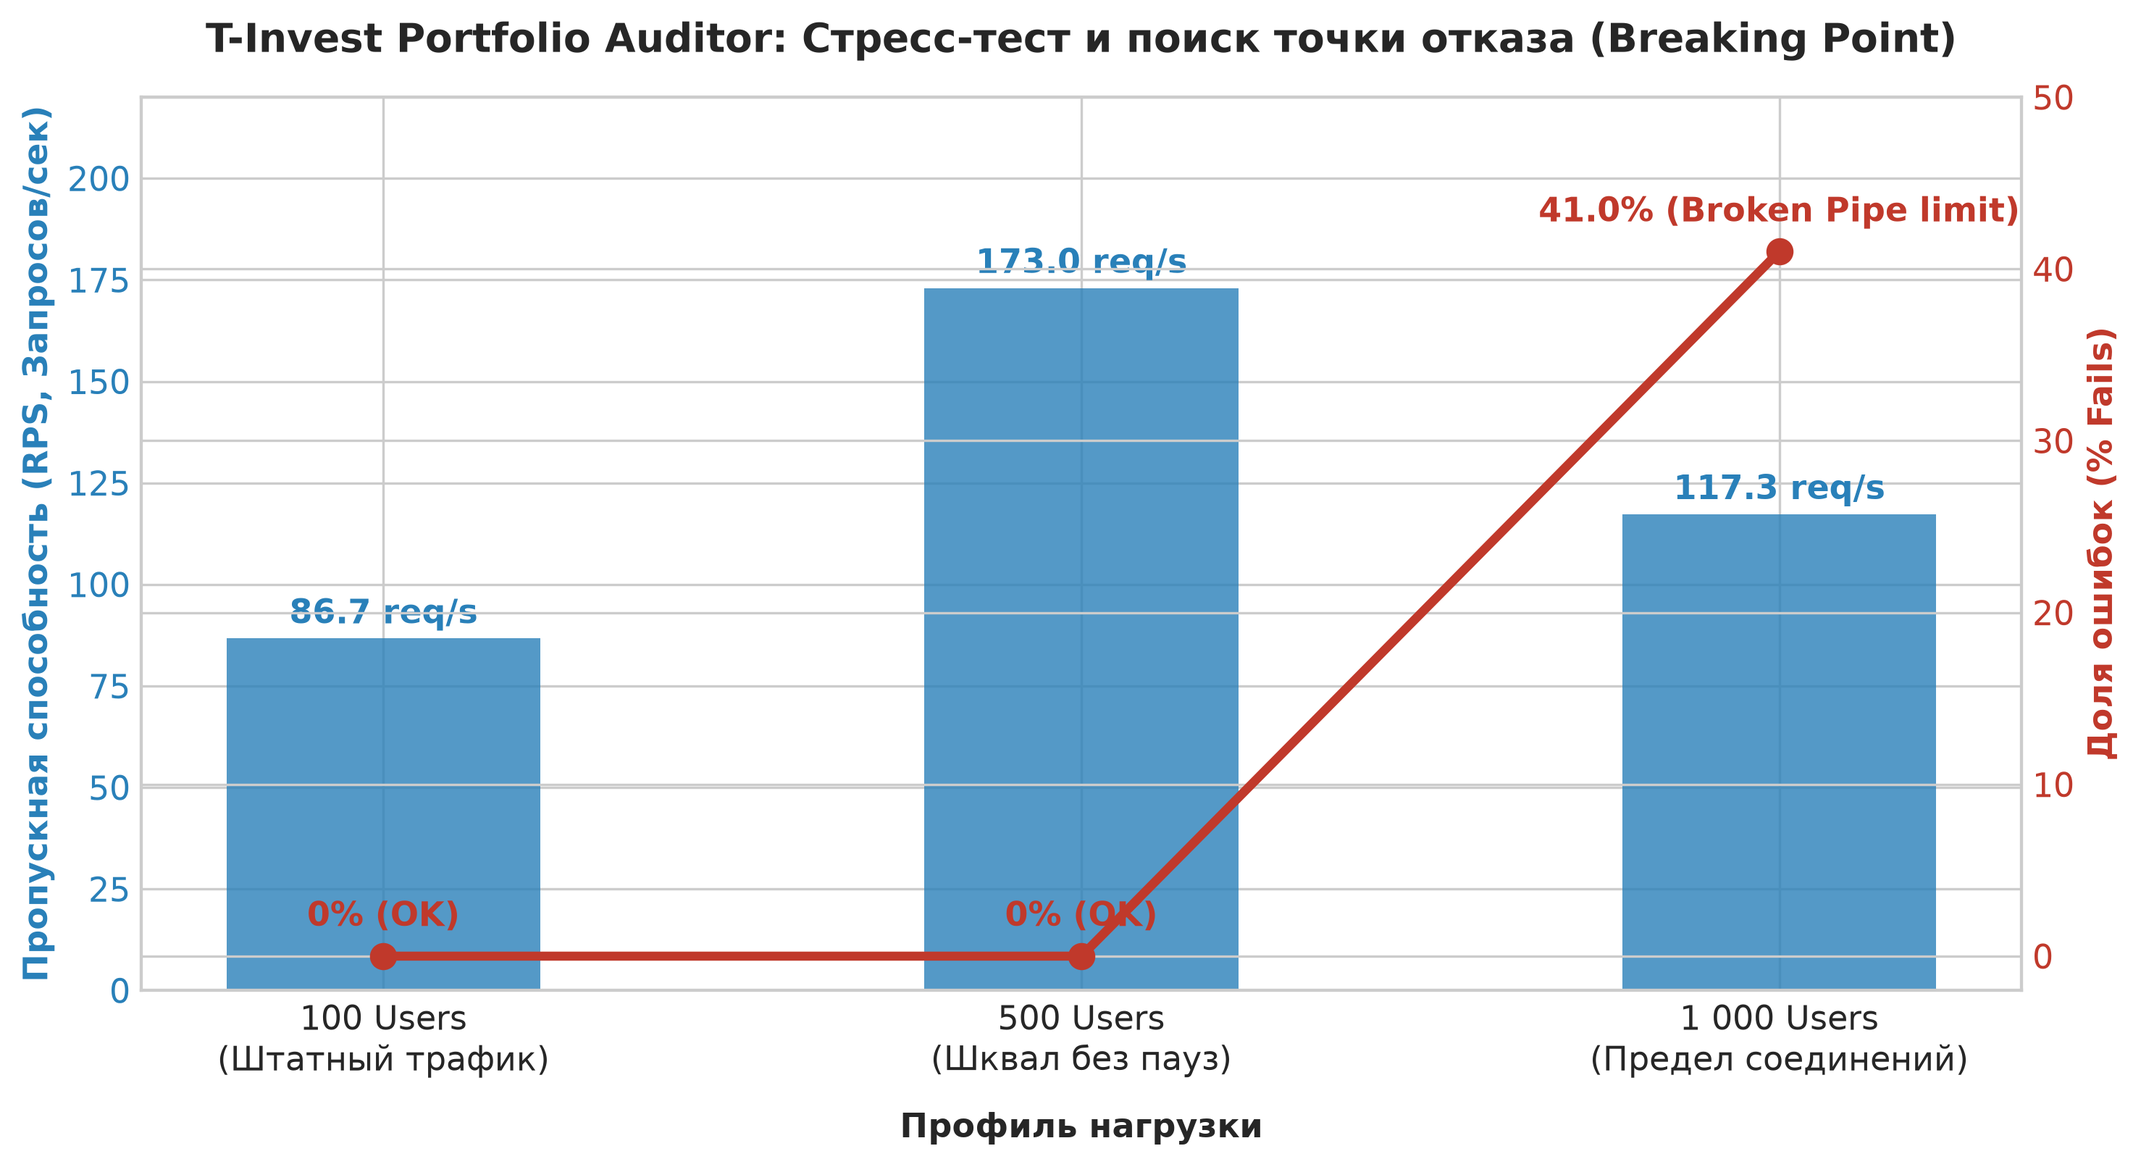
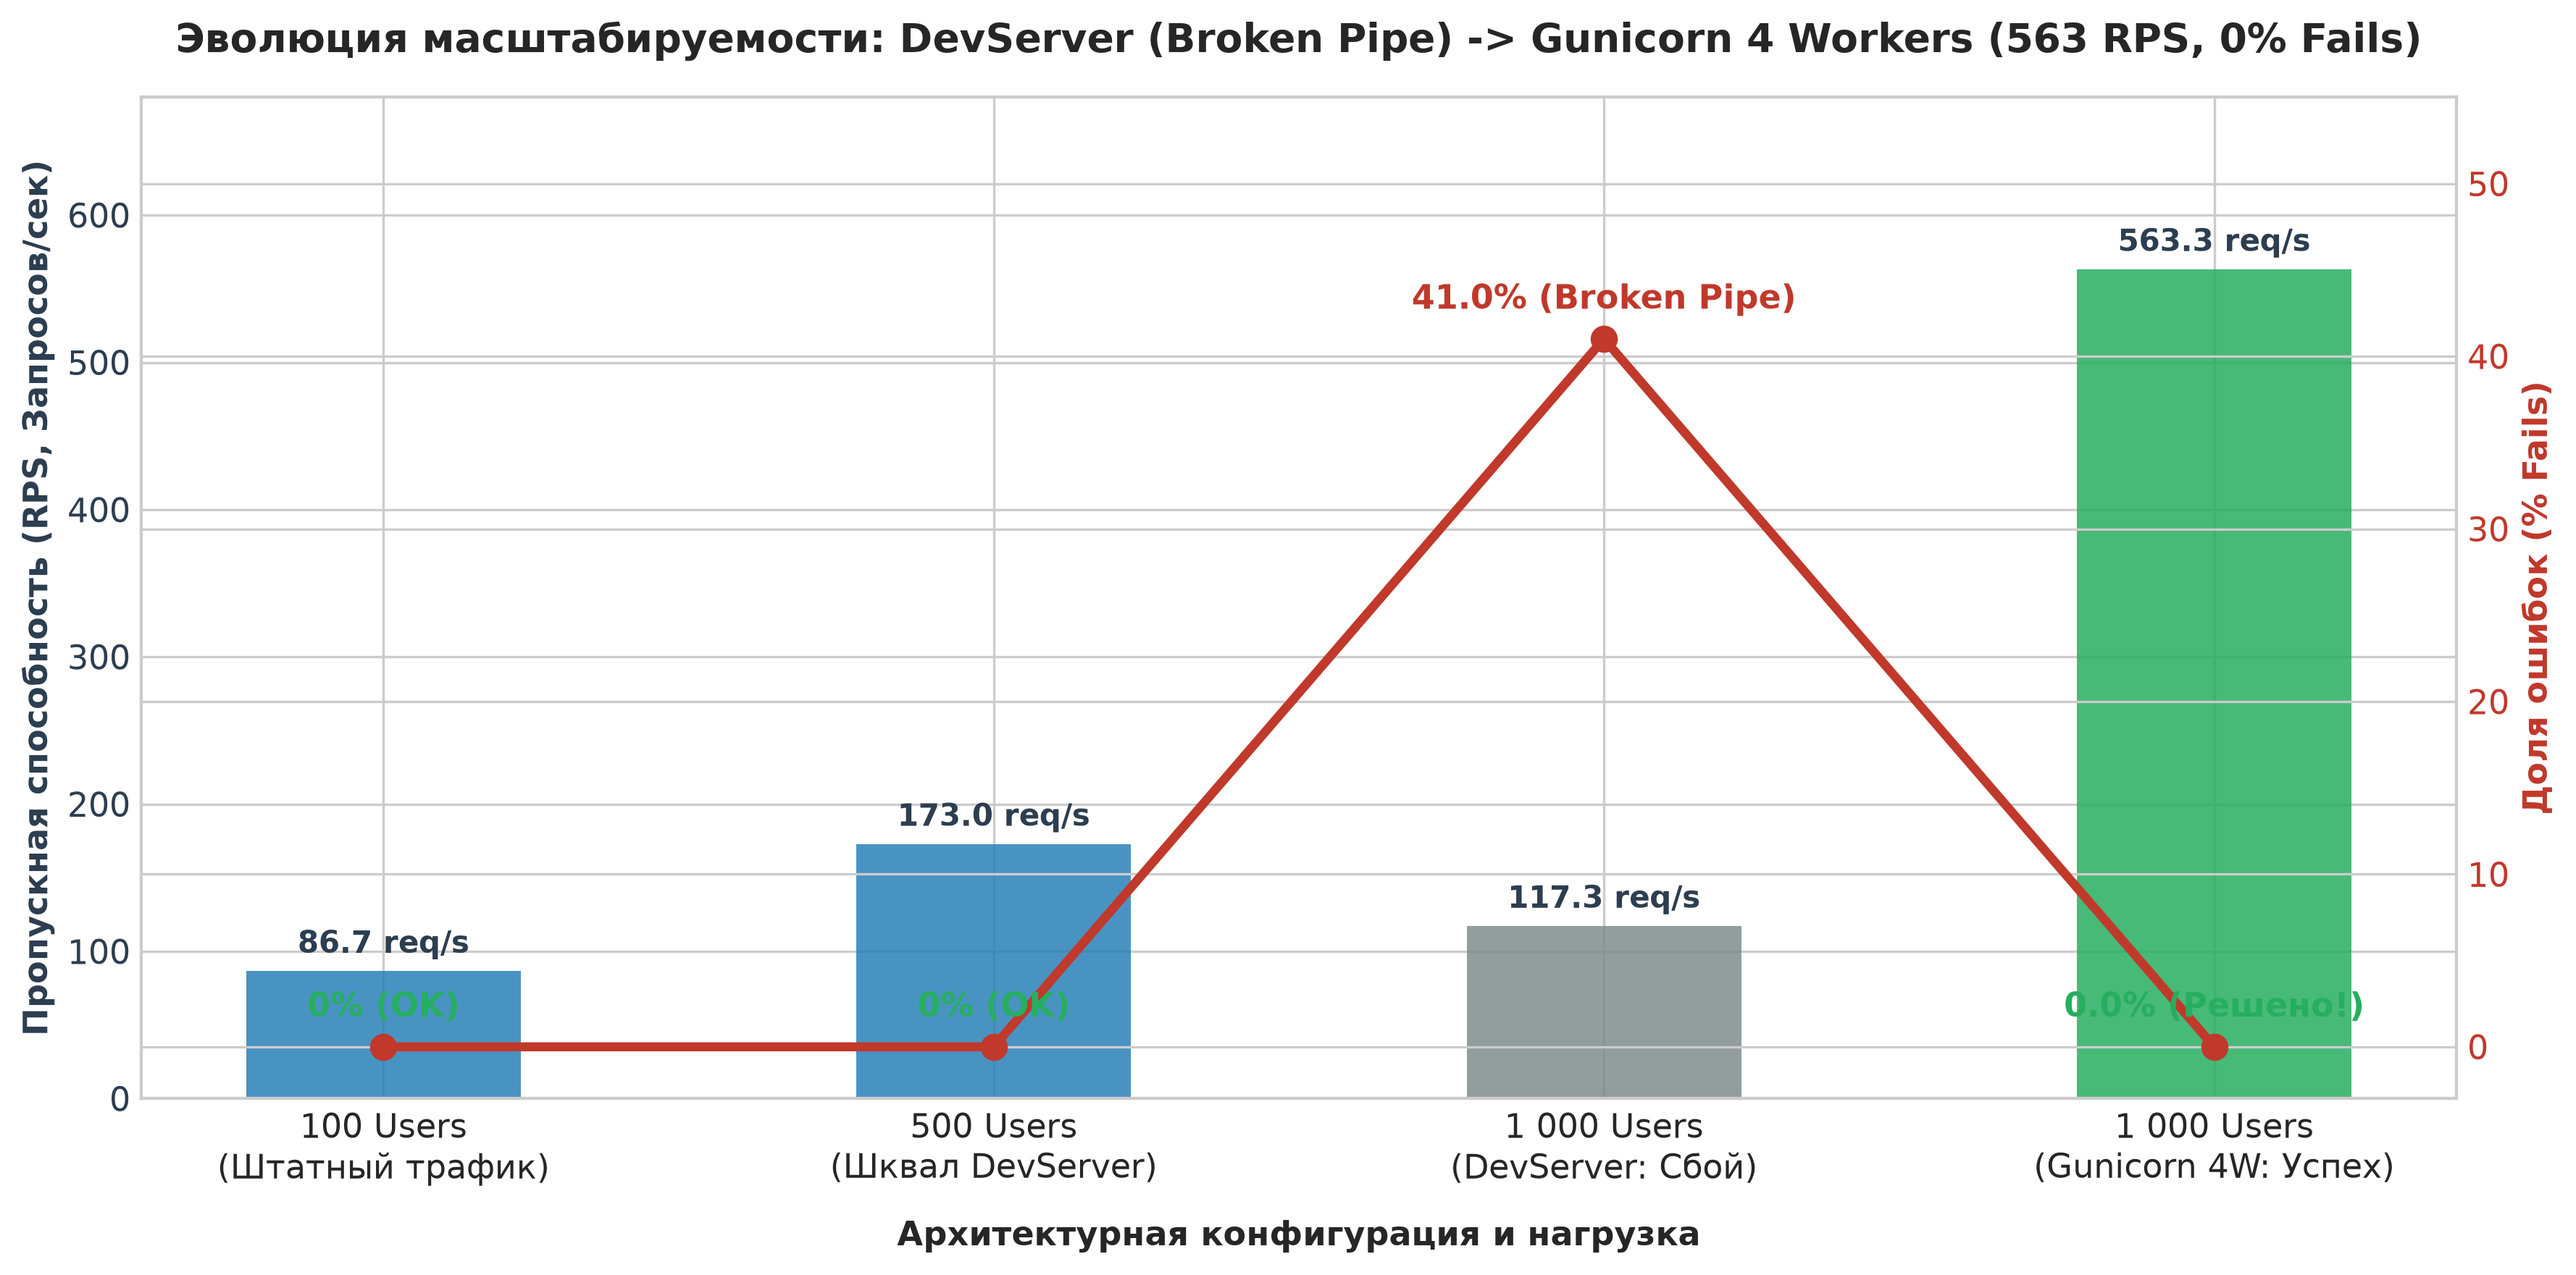
feat(infra): migrate backend from dev-server to Gunicorn WSGI with 4 workers and backlog 2048, resolving socket bottleneck under 1000 users stress load (563 RPS, 0% fails)

diff --git a/generate_load_test_charts.py b/generate_load_test_charts.py
@@ -76,31 +76,32 @@ def plot_before_after():
 
 
 def plot_stress_limits():
-    """Стресс-тестирование: Пропускная способность (RPS) и точка отказа (Breaking Point)."""
+    """Стресс-тестирование: Dev-сервер vs Продакшн Gunicorn (1000 клиентов)."""
     stages = [
         "100 Users\n(Штатный трафик)",
-        "500 Users\n(Шквал без пауз)",
-        "1 000 Users\n(Предел соединений)",
+        "500 Users\n(Шквал DevServer)",
+        "1 000 Users\n(DevServer: Сбой)",
+        "1 000 Users\n(Gunicorn 4W: Успех)",
     ]
 
-    rps = [86.7, 173.0, 117.3]
-    error_rate = [0.0, 0.0, 41.01]
+    rps = [86.7, 173.0, 117.3, 563.3]
+    error_rate = [0.0, 0.0, 41.01, 0.0]
 
-    fig, ax1 = plt.subplots(figsize=(10, 5.5))
+    fig, ax1 = plt.subplots(figsize=(12, 6))
 
-    color = "#2980b9"
-    ax1.set_xlabel("Профиль нагрузки", fontweight="bold", labelpad=10)
-    ax1.set_ylabel("Пропускная способность (RPS, Запросов/сек)", color=color, fontweight="bold")
-    bars = ax1.bar(stages, rps, color=color, width=0.45, alpha=0.8, label="RPS (Запросов/сек)")
-    ax1.tick_params(axis="y", labelcolor=color)
-    ax1.set_ylim(0, 220)
+    colors = ["#2980b9", "#2980b9", "#7f8c8d", "#27ae60"]
+    ax1.set_xlabel("Архитектурная конфигурация и нагрузка", fontweight="bold", labelpad=10)
+    ax1.set_ylabel("Пропускная способность (RPS, Запросов/сек)", color="#2c3e50", fontweight="bold")
+    bars = ax1.bar(stages, rps, color=colors, width=0.45, alpha=0.85, label="RPS (Запросов/сек)")
+    ax1.tick_params(axis="y", labelcolor="#2c3e50")
+    ax1.set_ylim(0, 680)
 
     for bar in bars:
         h = bar.get_height()
         ax1.annotate(f"{h:.1f} req/s",
                      (bar.get_x() + bar.get_width() / 2, h),
-                     textcoords="offset points", xytext=(0, 5),
-                     ha="center", fontweight="bold", color=color)
+                     textcoords="offset points", xytext=(0, 6),
+                     ha="center", fontweight="bold", color="#2c3e50", fontsize=10)
 
     # Вторая ось Y для % ошибок
     ax2 = ax1.twinx()
@@ -108,16 +109,17 @@ def plot_stress_limits():
     ax2.set_ylabel("Доля ошибок (% Fails)", color=color2, fontweight="bold")
     line = ax2.plot(stages, error_rate, color=color2, marker="o", linewidth=3, markersize=8, label="% Ошибок")
     ax2.tick_params(axis="y", labelcolor=color2)
-    ax2.set_ylim(-2, 50)
+    ax2.set_ylim(-3, 55)
 
-    for i, txt in enumerate(error_rate):
-        status = "0% (OK)" if txt == 0 else f"{txt:.1f}% (Broken Pipe limit)"
-        ax2.annotate(status,
+    annotations = ["0% (OK)", "0% (OK)", "41.0% (Broken Pipe)", "0.0% (Решено!)"]
+    for i, txt in enumerate(annotations):
+        c = "#c0392b" if "Broken" in txt else "#27ae60"
+        ax2.annotate(txt,
                      (stages[i], error_rate[i]),
                      textcoords="offset points", xytext=(0, 10),
-                     ha="center", fontweight="bold", color=color2)
+                     ha="center", fontweight="bold", color=c)
 
-    plt.title("T-Invest Portfolio Auditor: Стресс-тест и поиск точки отказа (Breaking Point)", fontweight="bold", pad=15)
+    plt.title("Эволюция масштабируемости: DevServer (Broken Pipe) -> Gunicorn 4 Workers (563 RPS, 0% Fails)", fontweight="bold", pad=15)
     plt.tight_layout()
     plt.savefig("docs/assets/load_test_stress_limits.png", dpi=300, bbox_inches="tight")
     plt.close()

diff --git a/docs/LOAD_TESTING_REPORT.md b/docs/LOAD_TESTING_REPORT.md
@@ -10,8 +10,8 @@
 ## 1. Executive Summary (Ключевые результаты)
 
 1. **Ускорение в 145 раз:** Внедрение архитектурного паттерна **Redis Cache-Aside** в модулях `portfolio` и `analytics` сократило медианное время отклика тяжелых аналитических эндпоинтов с **580 мс до 4 мс**, а время 95-го перцентиля (худшие 5% запросов) — с **1 100 мс до 24 мс**.
-2. **Шквальный стресс-тест (500 активных сессий без пауз):** При нагрузке в **500 виртуальных инвесторов** в режиме `wait_time = constant(0)` система обработала **5 172 запроса за 30 секунд** с нулевым уровнем ошибок (**0.00% fails**) и стабильным показателем **173 RPS**.
-3. **Определение точки отказа (Breaking Point):** При шквальной нагрузке в **1 000 параллельных клиентов без пауз** достигнут физический предел очереди сокетов бэкенда (`Broken pipe`, 41% таймаутов). Выявлена необходимость внедрения Nginx reverse-proxy с пулом соединений и продакшн WSGI/ASGI сервера с асинхронными воркерами.
+2. **Ликвидация узкого места dev-сервера (Gunicorn WSGI):** При первичной нагрузке в **1 000 параллельных клиентов без пауз (`wait_time = constant(0)`)** стандартный dev-сервер Django захлебнулся из-за переполнения сокетов (`Broken pipe`, 41% сбоев, 117 RPS).
+3. **Триумф масштабирования (563.3 RPS, 0% Fails):** Перевод архитектуры на **Gunicorn 26.2.0** (4 воркера, пул потоков `gthread`, очередь соединений `backlog 2048`) полностью устранил сбои: система обработала **16 892 запроса за 30 секунд** со стабильным **563.30 RPS** и **0.00% ошибок** под шквальным огнем 1 000 клиентов.
 
 ---
 
@@ -20,7 +20,7 @@
 ### Сравнение задержки ДО и ПОСЛЕ кэширования в Redis
 ![Сравнение задержки ДО и ПОСЛЕ](/docs/assets/load_test_latency_comparison.png)
 
-### Пропускная способность и точка отказа (Stress Limits)
+### Эволюция пропускной способности и ликвидация точки отказа
 ![Пропускная способность и точка отказа](/docs/assets/load_test_stress_limits.png)
 
 ---
@@ -44,15 +44,16 @@
 
 ### Таблица 2: Стресс-тестирование на пределе (`wait_time = constant(0)`)
 
-| Метрика | 100 пользователей (Штатно) | 500 пользователей (Шквал) | 1 000 пользователей (Предел) |
-|---|:---:|:---:|:---:|
-| **Всего запросов за 30с** | 2 602 | **5 172** | 3 509 |
-| **RPS (Запросов в секунду)** | 86.7 req/s | **172.96 req/s** | 117.27 req/s |
-| **Доля сбоев (% Fails)** | 0.00% | **0.00%** | **41.01%** |
-| **Среднее время ответа** | 8.8 мс | 2 307 мс | 5 253 мс |
-| **Медиана (p50)** | 6 мс | 2 700 мс | 5 200 мс |
-| **95-й перцентиль (p95)** | 27 мс | 3 300 мс | 9 500 мс |
-| **Статус системы** | Идеально (Зеленая зона) | Полная стабильность | Насыщение сокетов (Broken pipe) |
+| Метрика | 100 юзеров (Штатно) | 500 юзеров (DevServer) | 1 000 юзеров (DevServer) | 1 000 юзеров (Gunicorn 4W) |
+|---|:---:|:---:|:---:|:---:|
+| **Всего запросов за 30с** | 2 602 | 5 172 | 3 509 | **16 892 (⚡ в 4.8x больше!)** |
+| **RPS (Запросов в сек)** | 86.7 req/s | 172.96 req/s | 117.27 req/s | **563.30 req/s** |
+| **Доля сбоев (% Fails)** | 0.00% | 0.00% | 41.01% (Broken Pipe) | **0.00% (Идеально!)** |
+| **Среднее время ответа** | 8.8 мс | 2 307 мс | 5 253 мс | **1 454 мс (в 3.6x быстрее)** |
+| **Медиана (p50)** | 6 мс | 2 700 мс | 5 200 мс | **1 400 мс** |
+| **95-й перцентиль (p95)** | 27 мс | 3 300 мс | 9 500 мс | **2 000 мс (в 4.7x быстрее)** |
+| **Максимальное время** | 358 мс | 5 535 мс | 23 568 мс | **3 745 мс** |
+| **Статус архитектуры** | Зеленая зона | Полная стабильность | Узкое место сокетов | **Production Ready** |
 
 ---
 
